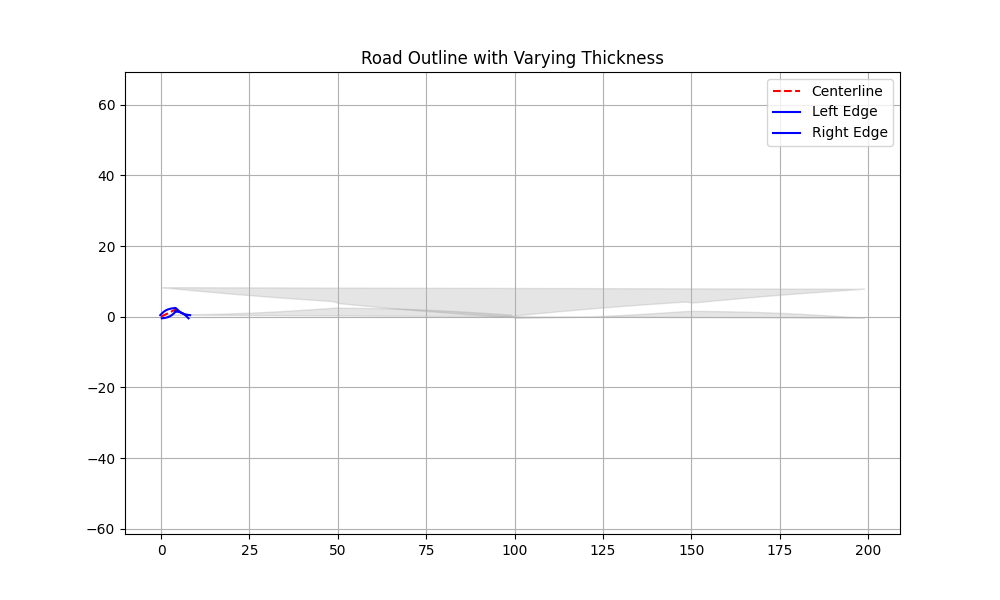
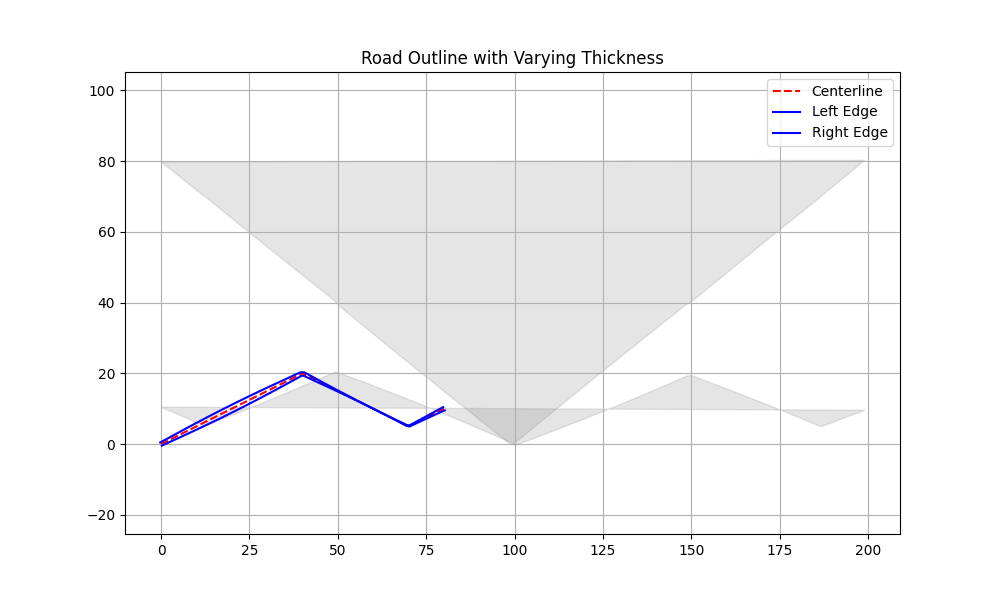
added terrible spline test from previous commit (forgot to write bt it) , added rays for collision with road edges

diff --git a/Source/main.py b/Source/main.py
@@ -48,6 +48,21 @@ class Car():
         #road references
         self.closestTweenPoint = None
 
+        #rays
+        self.numOfRays = 7
+        self.rayLength = 250
+        self.angleOffset = 180/(self.numOfRays - 1)
+
+        self.rayVertOffsets = []
+        self.rayVerts = []
+
+        for i in range(self.numOfRays):
+            vctr = angleToVector(180 + i * self.angleOffset)
+            self.rayVertOffsets.append((vctr[0] * self.rayLength, vctr[1] * self.rayLength))
+
+            #initial update
+            self.rayVerts.append((self.pos[0] + self.rayVertOffsets[i][0], self.pos[1] + self.rayVertOffsets[i][1]))
+
     def updateVerts(self):
         for i in range(len(self.verts)):
             #update pos
@@ -56,8 +71,18 @@ class Car():
             #rotate reinitialized verts
             self.verts[i] = rotatePoint(self.verts[i], self.pos, self.angle)
 
+        for i in range(self.numOfRays):
+            #update ray end pos and reinitialize verts for relative transform
+            self.rayVerts[i] = (self.pos[0] + self.rayVertOffsets[i][0], self.pos[1] + self.rayVertOffsets[i][1])
+            self.rayVerts[i] = rotatePoint(self.rayVerts[i], self.pos, self.angle)
+            
     def draw(self):
         self.updateVerts()
+
+        #draw ray lines
+        for i in range(self.numOfRays):
+            pygame.draw.line(screen, (80, 0, 0), self.pos, self.rayVerts[i], 1)
+
         pygame.draw.polygon(screen, (255, 255, 255), self.verts, 2)
 
         #draw line towards closest tween point
@@ -102,6 +127,39 @@ class Car():
                 closestDist = dist
                 closestPoint = points[i]
         self.closestTweenPoint = closestPoint
+
+    def getIntersections(self, road):
+        #get road edges as simpler array
+        roadsides = road.leftSidePoints + road.rightSidePoints
+
+        #for every ray
+        for i in range(self.numOfRays):
+            #get all intersections
+            intersections = []
+
+            #for every road edge
+            for j in range(len(roadsides)):
+                #check for intersections
+                nextRoadsideIndex = (j + 1) % len(roadsides)
+                intersection = linenItersection(self.pos, self.rayVerts[i], roadsides[j], roadsides[nextRoadsideIndex], True)
+
+                if intersection != None:
+                    intersections.append(intersection)
+
+            #get closest intersection
+            closestIndex = None
+            closestDist = math.inf
+            for i in range(len(intersections)):
+                vec = (self.pos[0] - intersections[i][0], self.pos[1] - intersections[i][1])
+                squaredDist = vec[0] ** 2 + vec[1] ** 2
+
+                if squaredDist < closestDist:
+                    closestDist = squaredDist
+                    closestIndex = i
+
+            #draw dot
+            if closestIndex != None:
+                pygame.draw.circle(screen, (255, 255, 0), intersections[closestIndex], 3)
 
 class Road():
     def __init__(self):
@@ -192,7 +250,7 @@ class Road():
             secodnEnd = self.leftSidePoints[nextIndex * 2 + 1]
 
             #get line intersection
-            intersection = linenItersection(firstStart, firstEnd, secondStart, secodnEnd)
+            intersection = linenItersection(firstStart, firstEnd, secondStart, secodnEnd, False)
 
             if intersection != None:
                 self.leftSidePoints[i * 2 + 1] = intersection
@@ -209,7 +267,7 @@ class Road():
             secodnEnd = self.rightSidePoints[nextIndex * 2 + 1]
 
             #get line intersection
-            intersection = linenItersection(firstStart, firstEnd, secondStart, secodnEnd)
+            intersection = linenItersection(firstStart, firstEnd, secondStart, secodnEnd, False)
 
             if intersection != None:
                 self.rightSidePoints[i * 2 + 1] = intersection
@@ -262,7 +320,7 @@ def rotatePoint(point, center, angleDeg):
 
     return (fx, fy)
 
-def linenItersection(p1, p2, p3, p4):   #for infinetly long lines
+def linenItersection(p1, p2, p3, p4, inSegments):   #for infinetly long lines
     #math generated by ChatGPT
 
     x1, y1 = p1
@@ -282,7 +340,21 @@ def linenItersection(p1, p2, p3, p4):   #for infinetly long lines
     # Get final point coordinates
     x = x1 + ua * (x2 - x1)
     y = y1 + ua * (y2 - y1)
+
+    # Check if point i on line segments
+    if inSegments:
+        ub = ((x2 - x1)*(y1 - y3) - (y2 - y1)*(x1 - x3)) / denom
+        if 0 <= ua <= 1 and 0 <= ub <= 1:
+            return (x, y)
+        else:
+            return None
     
+    return (x, y)
+
+def angleToVector(deg):
+    rad = math.radians(deg)
+    x = math.cos(rad)
+    y = math.sin(rad)
     return (x, y)
 
 #VARIABLE INITIALIZATION -----------------------------------------------------------------------------------------------------------------------------------------
@@ -332,6 +404,7 @@ while running:
 
     #other
     car.getClosestTweenPoint(road.cornerTweenPoints)
+    car.getIntersections(road)
 
     #draw
     road.drawRoad()

diff --git a/Source/extra/splinetest.py b/Source/extra/splinetest.py
@@ -92,8 +92,8 @@ class RoadOutlineGenerator:
 
 # Example points forming a curved road
 points = np.array([
-    [0, 0], [1, 0.5], [2, 1], [3, 1.5], [4, 2],
-    [5, 1.5], [6, 1], [7, 0.5], [8, 0]
+    [0, 0], [10, 5], [20, 10], [30, 15], [40, 20],
+    [50, 15], [60, 10], [70, 5], [80, 10]
 ])
 
 # Create road outline generator
